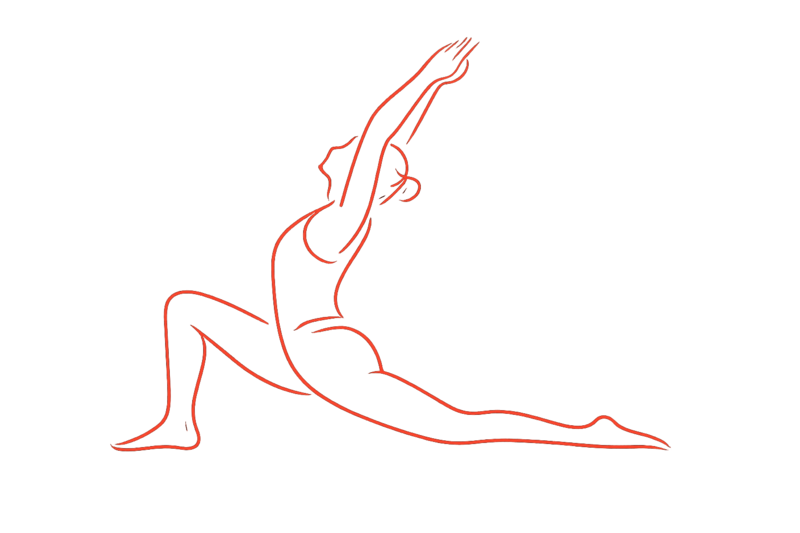
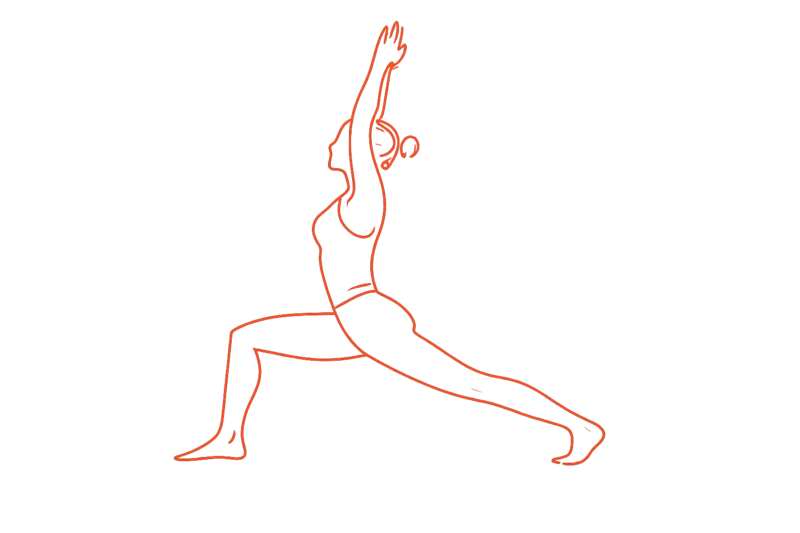
Fix: C5/C9 Anjaneyasana → Virabhadrasana I (correct pose name, image, cues + tips); B7/B11 Virabhadrasana A → Virabhadrasana I

diff --git a/ashtanga-vinyasa/index.html b/ashtanga-vinyasa/index.html
@@ -1121,7 +1121,7 @@
     <div class="img-panel"><img src="b-pose-07-virabhadrasana-right.png" alt="Virabhadrasana A Right"></div>
     <div class="info-panel">
       <div class="breath-pill"><span class="breath-icon">↑</span> Inhale · Sapta</div>
-      <div class="sanskrit">Virabhadrasana A</div>
+      <div class="sanskrit">Virabhadrasana I</div>
       <div class="english">Warrior I · Right Leg Forward</div>
       <div class="divider"></div>
       <div class="cue">Sapta — Inhale, right foot forward, rise into Warrior I. Knee over ankle, hips square, arms up.</div>
@@ -1258,7 +1258,7 @@
     <div class="img-panel"><img src="b-pose-11-virabhadrasana-left.png" alt="Virabhadrasana A Left"></div>
     <div class="info-panel">
       <div class="breath-pill"><span class="breath-icon">↑</span> Inhale · Eka Dasha</div>
-      <div class="sanskrit">Virabhadrasana A</div>
+      <div class="sanskrit">Virabhadrasana I</div>
       <div class="english">Warrior I · Left Leg Forward</div>
       <div class="divider"></div>
       <div class="cue">Eka Dasha — Inhale, left foot forward, rise into Warrior I. Left knee over ankle, torso square, arms up.</div>
@@ -1638,23 +1638,23 @@
   </div>
 </div>
 
-<!-- C5: Anjaneyasana right + arms up -->
+<!-- C5: Virabhadrasana I right -->
 <div class="slide series-c" id="sc-5">
   <div class="top-bar">
     <div class="top-left"><span class="top-om">ॐ</span><span class="top-label">C · 5 of 12</span></div>
     <div class="dots" id="dc-5"></div>
   </div>
   <div class="slide-body">
-    <div class="img-panel"><img src="c-pose-05-anjaneyasana-right.png" alt="Anjaneyasana Right"></div>
+    <div class="img-panel"><img src="c-pose-05-anjaneyasana-right.png" alt="Virabhadrasana I Right"></div>
     <div class="info-panel">
       <div class="breath-pill"><span class="breath-icon">↓↑</span> Exhale then Inhale</div>
-      <div class="sanskrit">Anjaneyasana</div>
-      <div class="english">Low Crescent Lunge · Right Leg Back</div>
+      <div class="sanskrit">Virabhadrasana I</div>
+      <div class="english">Warrior I · Right Leg Forward</div>
       <div class="divider"></div>
-      <div class="cue">Exhale, step the right foot back, knee down. Inhale, arms sweep up — Anjaneyasana, heart open.</div>
+      <div class="cue">Exhale, step the right foot back into Virabhadrasana I — back knee lifted, hips square. Inhale, arms sweep up overhead, heart open.</div>
       <div class="tips-label">Alignment &amp; Tips</div>
       <ul class="tips">
-        <li>Exhale — step the right foot back, lower the right knee to the mat, untuck the toes</li>
+        <li>Exhale — step the right foot back, back knee lifted, ground the outer edge of the back foot</li>
         <li>Inhale — lift both arms overhead, palms together, chest open, gentle backbend</li>
         <li>Left knee stays directly over the left ankle — shin vertical</li>
         <li>Sink the hips toward the floor, draw the tailbone down — open the hip flexors</li>
@@ -1775,20 +1775,20 @@
   </div>
 </div>
 
-<!-- C9: Anjaneyasana left + arms up -->
+<!-- C9: Virabhadrasana I left -->
 <div class="slide series-c" id="sc-9">
   <div class="top-bar">
     <div class="top-left"><span class="top-om">ॐ</span><span class="top-label">C · 9 of 12</span></div>
     <div class="dots" id="dc-9"></div>
   </div>
   <div class="slide-body">
-    <div class="img-panel"><img src="c-pose-13-anjaneyasana-left.png" alt="Anjaneyasana Left"></div>
+    <div class="img-panel"><img src="c-pose-13-anjaneyasana-left.png" alt="Virabhadrasana I Left"></div>
     <div class="info-panel">
       <div class="breath-pill"><span class="breath-icon">↓↑</span> Exhale then Inhale</div>
-      <div class="sanskrit">Anjaneyasana</div>
-      <div class="english">Low Crescent Lunge · Left Leg Back</div>
+      <div class="sanskrit">Virabhadrasana I</div>
+      <div class="english">Warrior I · Left Leg Forward</div>
       <div class="divider"></div>
-      <div class="cue">Exhale, step the left foot back, knee down. Inhale, arms sweep up — Anjaneyasana, other side.</div>
+      <div class="cue">Exhale, step the left foot back into Virabhadrasana I — back knee lifted, hips square. Inhale, arms sweep up overhead.</div>
       <div class="tips-label">Alignment &amp; Tips</div>
       <ul class="tips">
         <li>Exhale — step the left foot back (or drop left knee from Down Dog), knee to mat, untuck toes</li>
